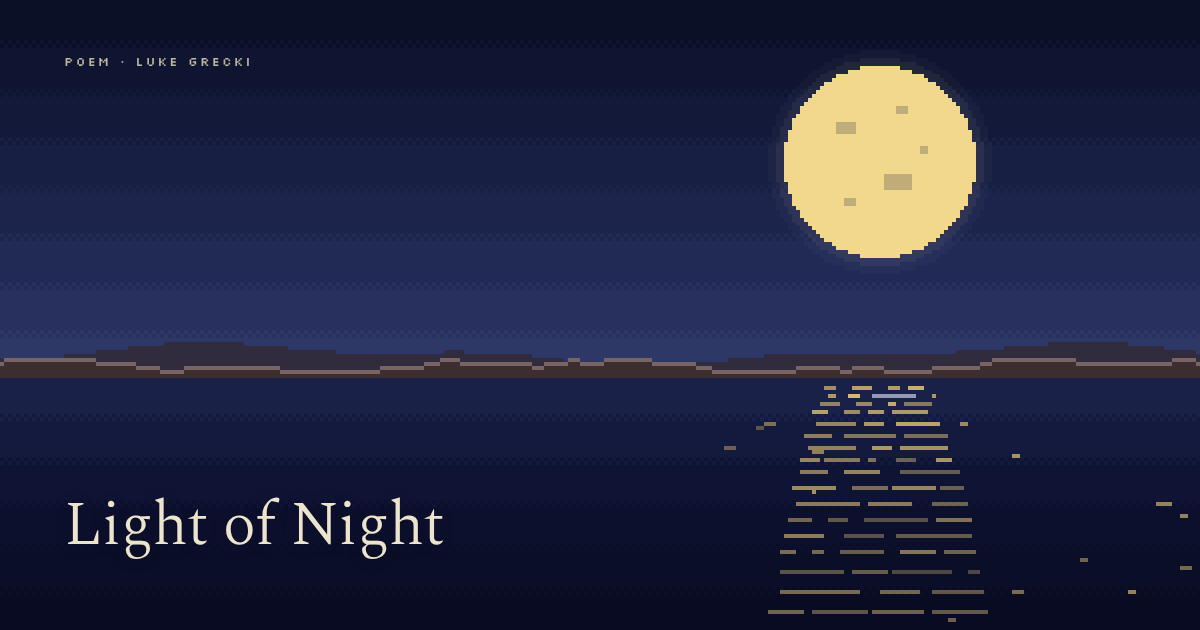
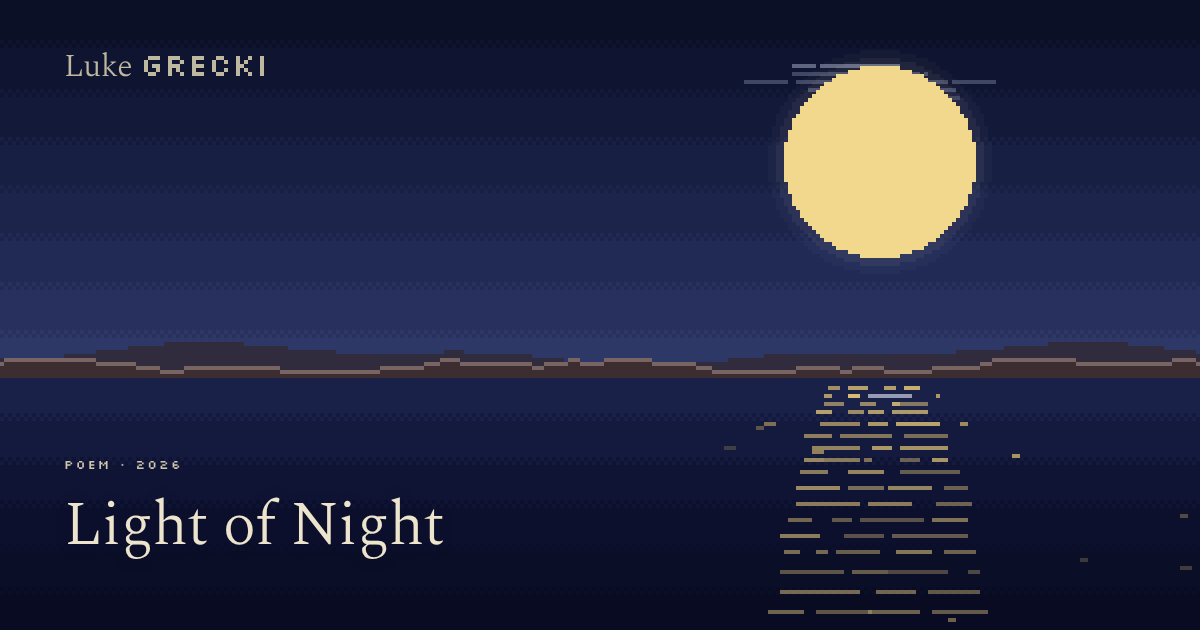
Share images: drop moon craters, add the new name lockup and clouds

diff --git a/tools/og-template.html b/tools/og-template.html
@@ -5,24 +5,28 @@
 <meta name="robots" content="noindex">
 <title>Share image template</title>
 <!-- Used by tools/build.py to draw each poem's 1200×630 share image.
-     Open /tools/og-template.html?time=dusk&title=Your%20title to preview; label= replaces "Poem · Luke Grecki"
-     (release pages use label=EP%20·%20Luke%20Grecki).
+     Open /tools/og-template.html?time=dusk&title=Your%20title to preview; label= sets the small line above the title
+     (poems use label=Poem%20·%202026, releases label=EP%20·%202023).
      With home=1 it draws the site-wide image instead: the scene centred, with no text. -->
 <link rel="stylesheet" href="/assets/css/site.css?v=983d07d1">
 <style>
 html, body { margin: 0; width: 1200px; height: 630px; overflow: hidden; }
-*, *::before, *::after { animation: none !important; }
+/* motion paused where it is, so clouds and glints sit mid-drift instead of all at their start */
+*, *::before, *::after { animation-play-state: paused !important; }
 .frame { position: relative; width: 1200px; height: 630px; overflow: hidden; }
 /* the scene is drawn wider than the frame so the sun or moon sits right of centre */
 .frame .scene { position: absolute; left: 0; top: 0; width: 1760px; height: 630px; min-height: 0; }
-.frame .scene__readout, .frame .scene__particles, .frame .scene__clouds { display: none; }
+.frame .scene__readout, .frame .scene__particles { display: none; }
 html[data-time="day"]   .scene__orb { bottom: 150px !important; }
 html[data-time="night"] .scene__orb { bottom: 120px !important; }
 html[data-time="dusk"]  .scene__orb { bottom: 36px !important; }
 html.home .frame .scene { width: 1200px; }
-html.home .og-label, html.home .og-title { display: none; }
-.og-label { position: absolute; left: 64px; top: 52px; margin: 0; font-size: 13px; letter-spacing: 0.16em; color: var(--scene-readout); }
-.og-title { position: absolute; left: 64px; bottom: 72px; max-width: 610px; margin: 0; font-weight: 300; font-size: 62px; line-height: 1.04; letter-spacing: -0.01em; color: var(--scene-text); text-shadow: 0 1px 18px rgba(0,0,0,.18); }
+html.home .og-brand, html.home .og-text { display: none; }
+/* the site's name as on the home page: Spectral, with the surname in Silkscreen (32px = 4px pixels) */
+.og-brand { position: absolute; left: 64px; top: 48px; margin: 0; font-weight: 300; font-size: 32px; line-height: 1; letter-spacing: -0.01em; color: var(--scene-readout); }
+.og-text { position: absolute; left: 64px; bottom: 72px; display: flex; flex-direction: column; gap: 20px; }
+.og-label { margin: 0; font-size: 13px; letter-spacing: 0.16em; color: var(--scene-nav); }
+.og-title { max-width: 610px; margin: 0; font-weight: 300; font-size: 62px; line-height: 1.04; letter-spacing: -0.01em; color: var(--scene-text); text-shadow: 0 1px 18px rgba(0,0,0,.18); }
 </style>
 <script>if (new URLSearchParams(location.search).get('home')) document.documentElement.classList.add('home');</script>
 <script src="/assets/js/tz.js"></script>
@@ -31,13 +35,16 @@ html.home .og-label, html.home .og-title { display: none; }
 </head>
 <body>
 <div class="frame">
-  <main class="scene" data-scene>
+  <main class="scene" data-scene data-no-craters>
     <div class="scene__sky" aria-hidden="true"><div class="bands"></div><div class="scene__orb"></div><div class="scene__hills"></div></div>
     <div class="scene__water" aria-hidden="true"><div class="bands"></div><div class="scene__refl"></div></div>
     <p class="scene__readout pixel"></p>
   </main>
-  <p class="og-label pixel">Poem · Luke Grecki</p>
-  <h1 class="og-title"></h1>
+  <p class="og-brand">Luke <span class="name-pixel">Grecki</span></p>
+  <div class="og-text">
+    <p class="og-label pixel">Poem</p>
+    <h1 class="og-title"></h1>
+  </div>
 </div>
 <script>
   var params = new URLSearchParams(location.search);

diff --git a/assets/js/scene.js b/assets/js/scene.js
@@ -87,8 +87,8 @@
         cxSum += (qa + qb) / 2; cxN++;
       }
     });
-    if (isMoon) {
-      // craters, only where the moon is lit (and turned over in the south)
+    if (isMoon && !root.hasAttribute('data-no-craters')) {
+      // craters, only where the moon is lit (and turned over in the south); share images leave them off
       CRATERS.forEach(function (c) {
         var x0 = S.south ? D - c[0] - c[2] : c[0], y0 = S.south ? D - c[1] - c[3] : c[1];
         for (var yy = y0; yy < y0 + c[3]; yy += G) {

diff --git a/tools/build.py b/tools/build.py
@@ -346,7 +346,8 @@ def build_images(poems, releases, redraw):
         for p in todo:
             page = browser.new_page(viewport={'width': 1200, 'height': 630})
             page.clock.set_fixed_time(FULL_MOON)
-            query = urllib.parse.urlencode({'time': p.get('time', 'night'), 'season': 'autumn', 'title': p['title']})
+            query = urllib.parse.urlencode({'time': p.get('time', 'night'), 'season': 'autumn', 'title': p['title'],
+                                            'label': f"Poem · {p['year']}"})
             page.goto(f'{base}/tools/og-template.html?{query}', wait_until='networkidle')
             page.wait_for_selector('html[data-ready]')
             page.evaluate('document.fonts.ready')
@@ -360,7 +361,7 @@ def build_images(poems, releases, redraw):
             page = browser.new_page(viewport={'width': 1200, 'height': 630})
             page.clock.set_fixed_time(when)
             query = urllib.parse.urlencode({'time': 'night', 'season': 'autumn', 'title': r['title'],
-                                            'label': f"{r['type']} · Luke Grecki"})
+                                            'label': f"{r['type']} · {r['year']}"})
             page.goto(f'{base}/tools/og-template.html?{query}', wait_until='networkidle')
             page.wait_for_selector('html[data-ready]')
             page.evaluate('document.fonts.ready')
